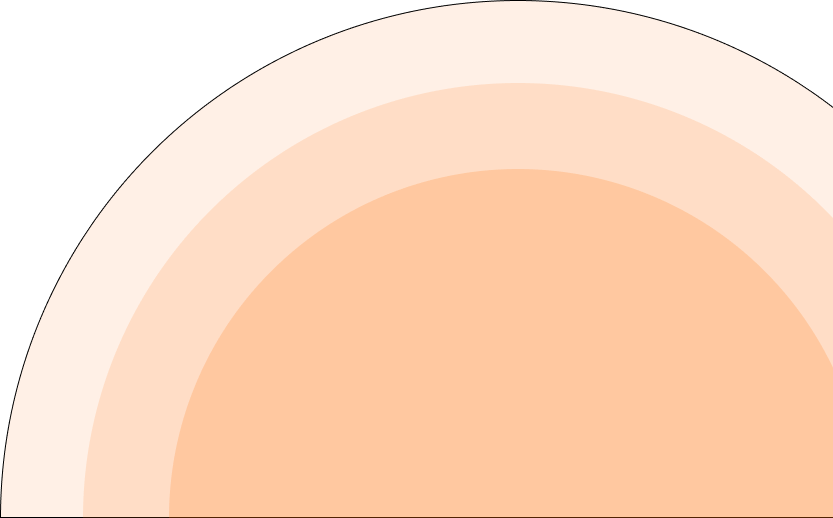
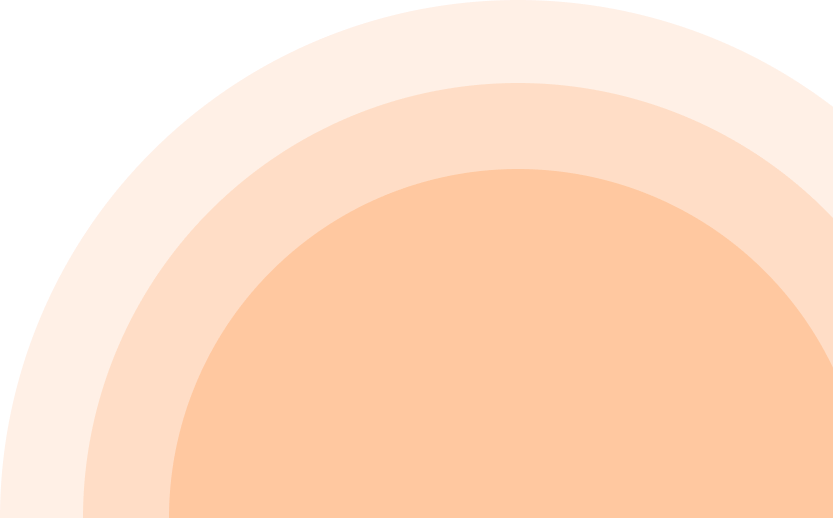
Added hero section and it's styling.

diff --git a/style.css b/style.css
@@ -5,10 +5,12 @@
   box-sizing: border-box;
   transition: all 0.3s;
   font-family: "Open Sans", sans-serif;
+  text-decoration: none;
 }
 :root {
   --text-color: #474747;
   --accent-color: #fd6e0a;
+  --bg-color: #fff8f3;
   --light-color: #ffffff;
   --dark-color: #000000;
 }
@@ -21,15 +23,21 @@
   padding: 12px 25px;
   border-radius: 4px;
   font-size: 16px;
+  border: solid 1px var(--accent-color);
   color: #ffffff;
   font-weight: 600;
 }
 .btn:hover {
   background-color: #ff9448;
+  border-color: #ff9448;
   color: var(--light-color);
 }
 
 /* Styles for Header Section */
+header {
+  z-index: 2;
+  position: relative;
+}
 header .container {
   display: flex;
   justify-content: space-between;
@@ -54,4 +62,70 @@ nav ul li a {
 }
 nav ul li a:hover {
   color: var(--accent-color);
+}
+
+/* Styles for Hero Section */
+#hero-section {
+  background-color: var(--bg-color);
+  padding: 200px 0 0 0;
+  background-image: url("./assets/images/half-circle-shap.png");
+  background-position: right bottom;
+  background-size: 1000px;
+  margin-top: -90px;
+  z-index: 1;
+  background-repeat: no-repeat;
+  position: relative;
+}
+#hero-section .container {
+  display: flex;
+  justify-content: space-between;
+  align-items: center;
+}
+#hero-section h1 {
+  font-size: 64px;
+  font-weight: 700;
+  line-height: 72px;
+}
+#hero-section h1 span {
+  font-size: 40px;
+  font-weight: 500;
+  display: block;
+  line-height: 48px;
+}
+#hero-section p {
+  font-size: 16px;
+  line-height: 24px;
+  margin: 20px 0;
+  font-weight: 400;
+  color: var(--text-color);
+}
+#hero-section .hero-buttons {
+  display: flex;
+  justify-content: start;
+  gap: 25px;
+  align-items: center;
+}
+#hero-section .btn.btn-2 {
+  background-color: transparent;
+  color: var(--accent-color);
+}
+
+#hero-section a img {
+  width: 20px;
+  margin-right: 7px;
+}
+#hero-section .hero-right-content img {
+  width: 600px;
+}
+
+#hero-section .header-floating-text {
+  position: absolute;
+  top: 50%;
+  left: -150px;
+  transform: translateY(-50%) rotate(-90deg);
+  font-size: 104px;
+  letter-spacing: 20px;
+  font-weight: 800;
+  color: var(--text-color);
+  opacity: 0.25;
 }

diff --git a/index.html b/index.html
@@ -29,5 +29,34 @@
         </div>
       </section>
     </header>
+    <main>
+      <section id="hero-section">
+        <div class="container">
+          <div class="hero-left-content">
+            <h1>
+              <span>Hi, I am</span>
+              Mary Hardy
+            </h1>
+            <p>
+              Shot what able cold new see hold.Friendly as an betrayed formerly
+              he. Morning because as to society behaved moments.
+            </p>
+            <div class="hero-buttons">
+              <a class="btn" href="#"
+                ><img src="./assets/images/icons/download-icon.png" />Download
+                CV</a
+              >
+              <a class="btn btn-2" href="#"
+                ><img src="./assets/images/icons/call-icon.png" />Contact</a
+              >
+            </div>
+          </div>
+          <div class="hero-right-content">
+            <img src="./assets/images/mary-hardy-photo.png" alt="Mary Hardy" />
+          </div>
+        </div>
+        <h2 class="header-floating-text">Developer</h2>
+      </section>
+    </main>
   </body>
 </html>